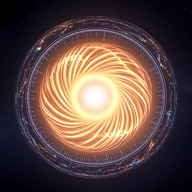
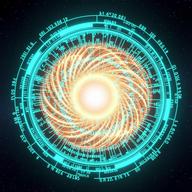
Add files via upload

diff --git a/index.html b/index.html
@@ -1,5 +1,5 @@
 <!DOCTYPE html>
-<!-- J.A.R.V.I.S v11 — moottorijono: OMA-AI (kotikone, Ollama) → valittu moottori (GLM) → varmoottori. Vaihto täysin automaattinen, avaimet säilyvät per moottori, ei käsipelin moottorinvaihtoja | rev 10 think-suodatin -->
+<!-- J.A.R.V.I.S v14 — oma pyörre + HUD-renkaat (täsmäversio) — moottorijono: OMA-AI (kotikone, Ollama) → valittu moottori (GLM) → varmoottori. Vaihto täysin automaattinen, avaimet säilyvät per moottori, ei käsipelin moottorinvaihtoja | rev 10 think-suodatin -->
 <html lang="fi">
 <head>
 <meta charset="UTF-8">

diff --git a/sw.js b/sw.js
@@ -1,5 +1,5 @@
 /* J.A.R.V.I.S service worker - cache shell for offline orb */
-const CACHE = 'jarvis-v11';
+const CACHE = 'jarvis-v14';
 const SHELL = ['./', './manifest.json', './icon-192.png', './icon-512.png', './bg-fire.jpg', './bg-ice.jpg'];
 
 self.addEventListener('install', (e) => {
